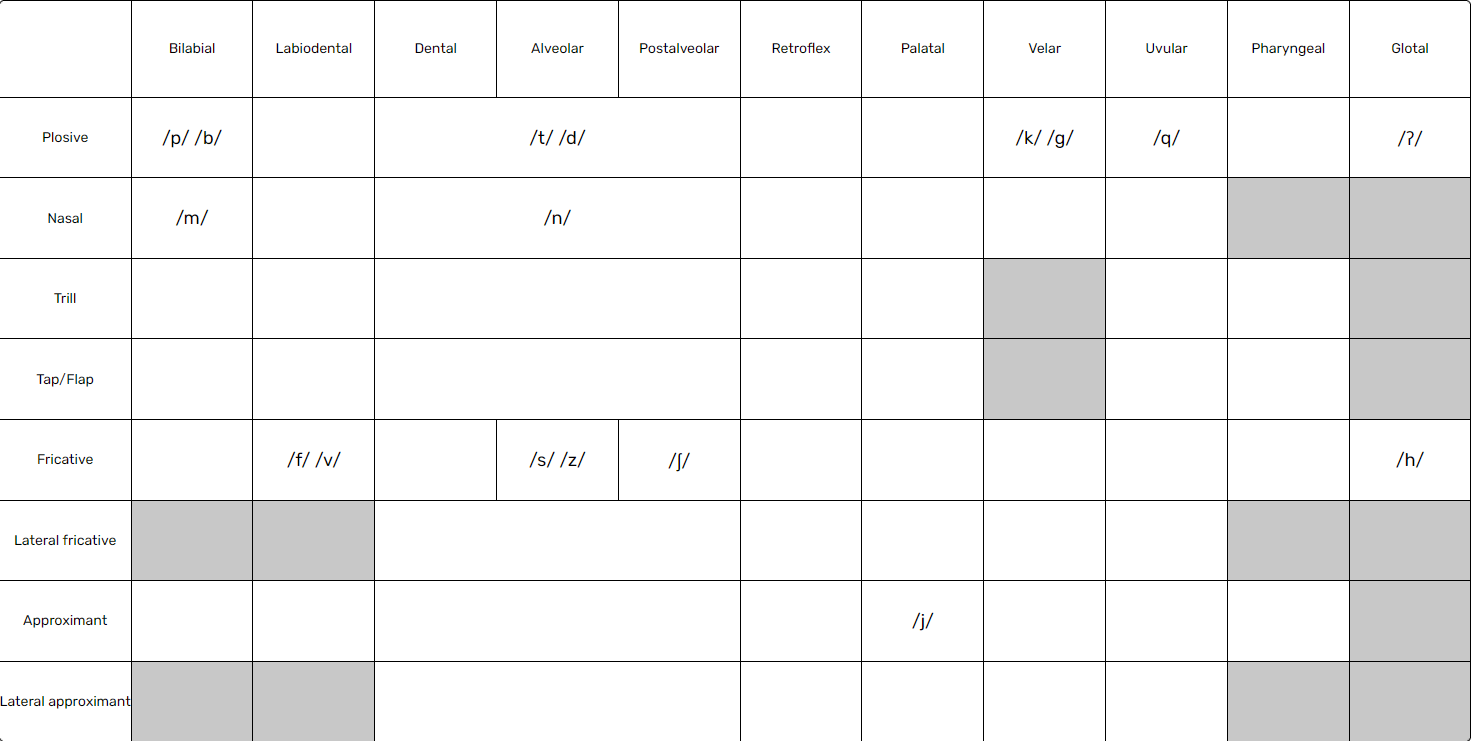
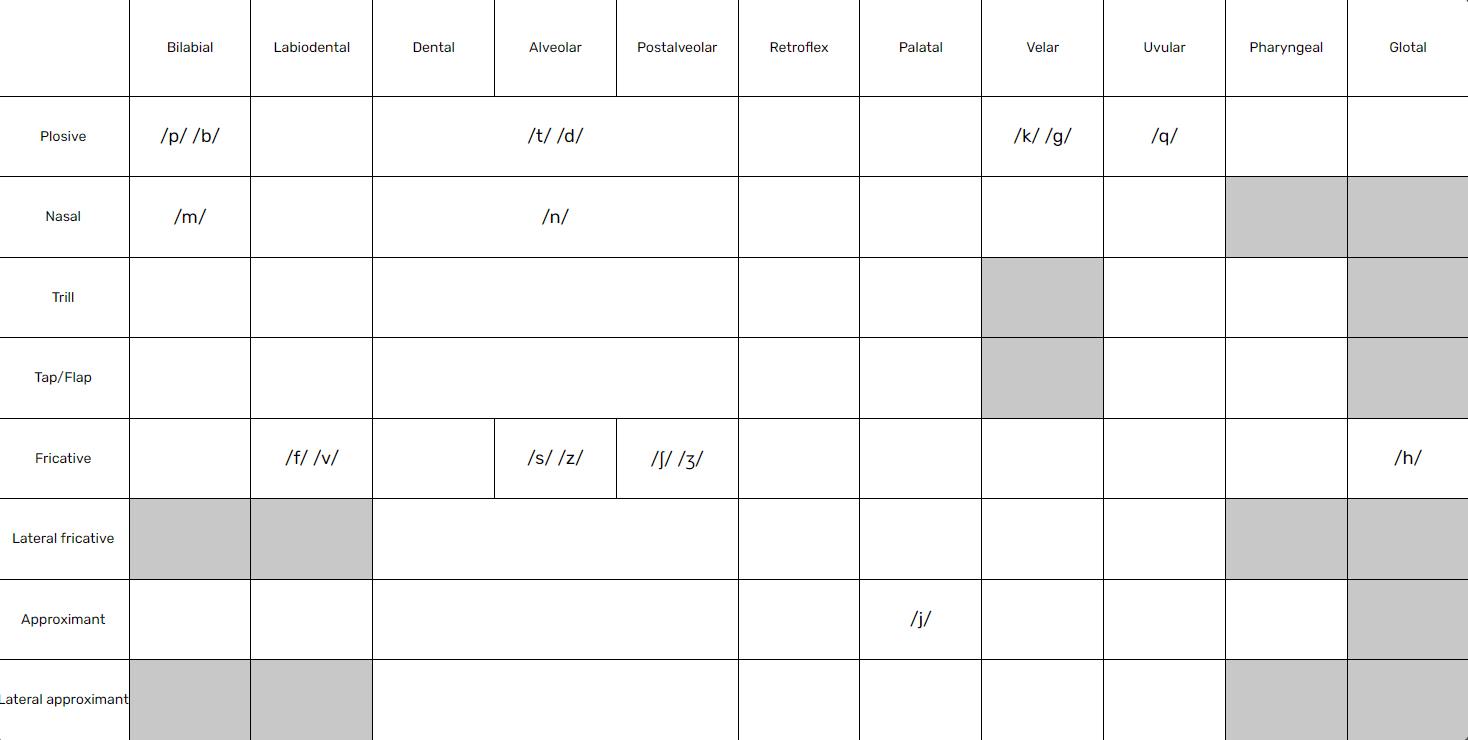
Updated phonology

diff --git a/Rules/Orthography/ArabicScript.md b/Rules/Orthography/ArabicScript.md
@@ -8,7 +8,7 @@ Although not the prefered script for writing the language. Alzapar can also be w
 |     ب      |   /b/       |
 |     پ      |   /p/       |
 |     ت      |   /t/       |
-|     ج      |   /ʤ/       |
+|     ج      |   /ʒ/       |
 |     ح      |   /h/       |
 |     د      |   /d/       |
 |     ر      |   /r/       |

diff --git a/Rules/Orthography/LatinScript.md b/Rules/Orthography/LatinScript.md
@@ -11,7 +11,7 @@ The following is the Latin alphabet for the language along with IPA values for e
 | Dd         |   /d/   |
 | Ee         |   /ε/   |
 | Ff         |   /f/   |
-| Ġġ         |   /ʤ/   |
+| Ġġ         |   /ʒ/   |
 | Gg         |   /g/   |
 | Hh         |   N/A   |
 | Ħħ         |   /h/   |
